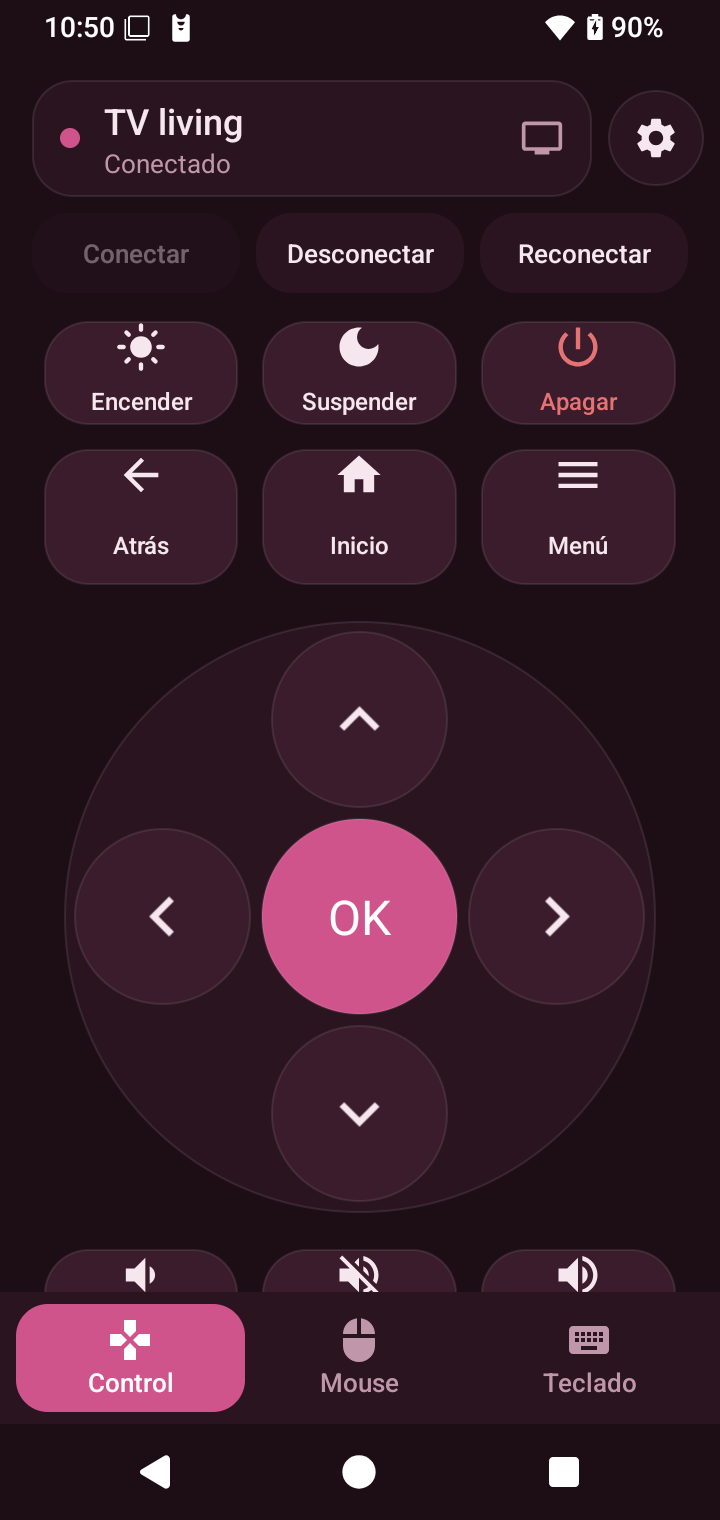
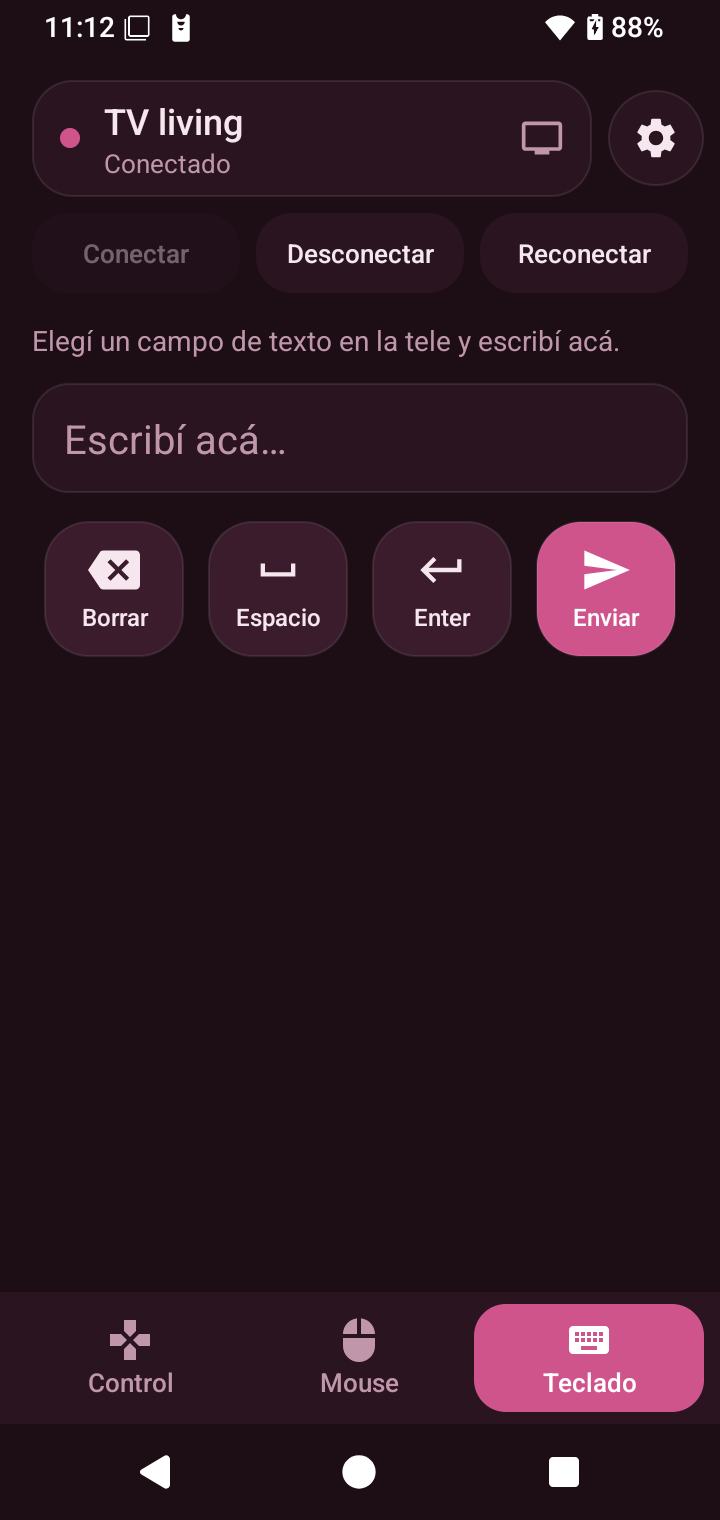
RemoteMate 2.1.2

diff --git a/README.md b/README.md
@@ -2,13 +2,13 @@
 
 <h1 align="center">RemoteMate</h1>
 
-<h2 align="center"><a href="https://github.com/matcarfer/RemoteMate/releases/download/v2.1.1/RemoteMate-2.1.1.apk">⬇ Descargar APK</a></h2>
+<h2 align="center"><a href="https://github.com/matcarfer/RemoteMate/releases/download/v2.1.2/RemoteMate-2.1.2.apk">⬇ Descargar APK</a></h2>
 
 <p align="center">
   <b>Español</b> · <a href="README.en.md">English</a><br><br>
 Usá el celular como control, mouse y teclado de tu caja de TV.<br>
 Por tu Wi-Fi, cifrado, sin publicidad ni nube.<br>
-<b>Compatible con Android 4.4 a 15.</b>
+<b>Compatible con Android 4.4 a 16.</b>
 </p>
 
 <p align="center">
@@ -27,4 +27,4 @@ La caja necesita **una** de estas: root, Accesibilidad o ADB por red.
 
 ---
 
-<sub>Gratis, de código cerrado. No redistribuir: compartí este link. Sin garantía. <a href="LICENSE">Licencia</a> · <a href="PRIVACY.es.md">Privacidad</a> · <a href="https://www.virustotal.com/gui/file/4b1ad1621e755000c62f9c5eff465c120500139b47d130032630b0d70a3e19bd">VirusTotal</a></sub>
+<sub>Gratis, de código cerrado. No redistribuir: compartí este link. Sin garantía. <a href="LICENSE">Licencia</a> · <a href="PRIVACY.es.md">Privacidad</a> · <a href="https://www.virustotal.com/gui/file/518e3edb1ae13f877e4e63ada0f456d0166f057ee8c1250376b60e9cb88fe2aa">VirusTotal</a></sub>

diff --git a/README.en.md b/README.en.md
@@ -2,13 +2,13 @@
 
 <h1 align="center">RemoteMate</h1>
 
-<h2 align="center"><a href="https://github.com/matcarfer/RemoteMate/releases/download/v2.1.1/RemoteMate-2.1.1.apk">⬇ Download APK</a></h2>
+<h2 align="center"><a href="https://github.com/matcarfer/RemoteMate/releases/download/v2.1.2/RemoteMate-2.1.2.apk">⬇ Download APK</a></h2>
 
 <p align="center">
   <a href="README.md">Español</a> · <b>English</b><br><br>
 Use your phone as the remote, mouse and keyboard of your TV box.<br>
 Over your Wi-Fi, encrypted, no ads and no cloud.<br>
-<b>Compatible with Android 4.4 to 15.</b>
+<b>Compatible with Android 4.4 to 16.</b>
 </p>
 
 <p align="center">
@@ -27,4 +27,4 @@ The box needs **one** of these: root, Accessibility or network ADB.
 
 ---
 
-<sub>Free, closed source. Do not redistribute: share this link. No warranty. <a href="LICENSE.en">License</a> · <a href="PRIVACY.md">Privacy</a> · <a href="https://www.virustotal.com/gui/file/4b1ad1621e755000c62f9c5eff465c120500139b47d130032630b0d70a3e19bd">VirusTotal</a></sub>
+<sub>Free, closed source. Do not redistribute: share this link. No warranty. <a href="LICENSE.en">License</a> · <a href="PRIVACY.md">Privacy</a> · <a href="https://www.virustotal.com/gui/file/518e3edb1ae13f877e4e63ada0f456d0166f057ee8c1250376b60e9cb88fe2aa">VirusTotal</a></sub>
